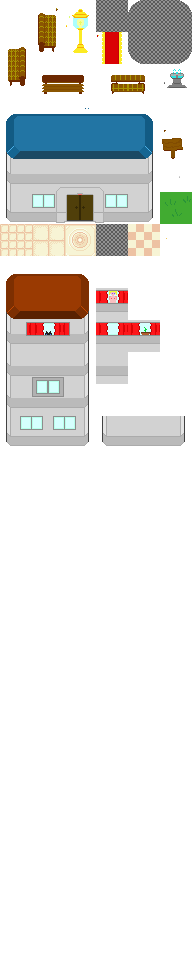
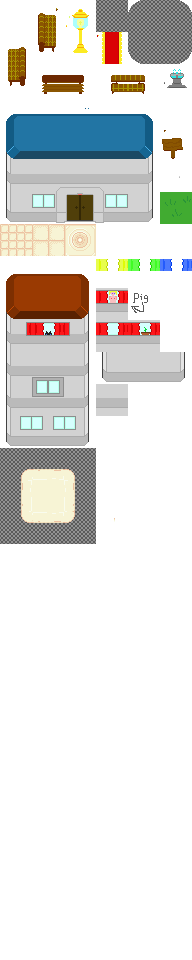
Added map

Changed region(s): [[0.5, 0.2188, 0.9688, 0.4688], [0.0, 0.4688, 0.5, 0.5938], [0.9375, 0.25, 1.0, 0.2812]]

diff --git a/VideoGame/VideoGame/Classes/Area.cs b/VideoGame/VideoGame/Classes/Area.cs
@@ -28,17 +28,20 @@ namespace VideoGame.Classes
         private Rectangle encounterHitbox;
         private Rectangle collisionHitbox;
         private Vector2 SpawnLocation;
-        List<Character> OpponentList = new List<Character>();
-        Dictionary<Rectangle, string> AreaColiders = new Dictionary<Rectangle, string>();
-        List<Rectangle> EncounterColiders = new List<Rectangle>();
-        List<Rectangle> CollisionColiders = new List<Rectangle>();
-        static int tileWidth = 32;
-        static int tileHeight = 32;
+        private List<Character> OpponentList = new List<Character>();
+        private Dictionary<Rectangle, string> AreaColiders = new Dictionary<Rectangle, string>();
+        private List<Rectangle> EncounterColiders = new List<Rectangle>();
+        private List<Rectangle> CollisionColiders = new List<Rectangle>();
+        private static int tileWidth = 32;
+        private static int tileHeight = 32;
         private Vector2 previousPos = new Vector2();
 
-        public Area() { }
+        public Area()
+        {
+        }
 
-        public Area(string name, Point levelrange, List<Monster> monsters, List<Character> opponentList, Vector2 spawnLocation, TiledMap map)
+        public Area(string name, Point levelrange, List<Monster> monsters, List<Character> opponentList,
+            Vector2 spawnLocation, TiledMap map)
         {
             Levelrange = levelrange;
             Name = name;
@@ -58,9 +61,18 @@ namespace VideoGame.Classes
                 {
                     batch.Draw(ContentLoader.Health, opponent.AI.Hitbox, Color.White);
                 }
-                foreach (var encounterColider in EncounterColiders) { batch.Draw(ContentLoader.Button, encounterColider, Color.Green); }
-                foreach (var collisionColider in CollisionColiders) { batch.Draw(ContentLoader.Button, collisionColider, Color.Blue); }
-                foreach (var areaCollider in AreaColiders) { batch.Draw(ContentLoader.Button, areaCollider.Key, Color.Aqua); }
+                foreach (var encounterColider in EncounterColiders)
+                {
+                    batch.Draw(ContentLoader.Button, encounterColider, Color.Green);
+                }
+                foreach (var collisionColider in CollisionColiders)
+                {
+                    batch.Draw(ContentLoader.Button, collisionColider, Color.Blue);
+                }
+                foreach (var areaCollider in AreaColiders)
+                {
+                    batch.Draw(ContentLoader.Button, areaCollider.Key, Color.Aqua);
+                }
             }
             foreach (var opponent in OpponentList) opponent.Draw(batch);
         }
@@ -80,7 +92,10 @@ namespace VideoGame.Classes
         public void GetCollision(Character player)
         {
             CollisionColiders.Clear();
-            var collisionLayers = Map.TileLayers.Where(layer => layer.Properties.ContainsKey("Collision") && layer.Properties.ContainsValue("true")).ToList();
+            var collisionLayers =
+                Map.TileLayers.Where(
+                    layer => layer.Properties.ContainsKey("Collision") && layer.Properties.ContainsValue("true"))
+                    .ToList();
             foreach (var layer in collisionLayers)
             {
                 foreach (var tile in layer.Tiles)
@@ -143,7 +158,10 @@ namespace VideoGame.Classes
         {
             bool test = true;
             EncounterColiders.Clear();
-            var encounterLayers = Map.TileLayers.Where(layer => layer.Properties.ContainsKey("Encounters") && layer.Properties.ContainsValue("true")).ToList();
+            var encounterLayers =
+                Map.TileLayers.Where(
+                    layer => layer.Properties.ContainsKey("Encounters") && layer.Properties.ContainsValue("true"))
+                    .ToList();
             foreach (var layer in encounterLayers)
             {
                 foreach (var tile in layer.Tiles)
@@ -227,6 +245,8 @@ namespace VideoGame.Classes
                     return City(player);
                 case "shop":
                     return Shop();
+                case "secrettunnel":
+                    return SecretTunnel(player);
             }
             return null;
         }
@@ -241,8 +261,9 @@ namespace VideoGame.Classes
         }
 
         #region Route1
+
         public static
-        Area Route1(Character player)
+            Area Route1(Character player)
         {
             if (Sound != null)
                 Sound.Stop();
@@ -253,10 +274,11 @@ namespace VideoGame.Classes
 
             Character tegenstander;
             Inventory inventory = new Inventory();
-            inventory.Add(Medicine.MagicStone(),5);
+            inventory.Add(Medicine.MagicStone(), 5);
             tegenstander = new Character("Nice guy", 6700,
                 inventory,
-                new List<Monster> {
+                new List<Monster>
+                {
                     DatabaseConnector.GetMonster(1, 5),
                     DatabaseConnector.GetMonster(4, 15)
                 },
@@ -278,22 +300,26 @@ namespace VideoGame.Classes
                 {
                     spawn = new Vector2(192, 416);
                 }
-            List<Monster> monsters = new List<Monster> {
+            List<Monster> monsters = new List<Monster>
+            {
                 DatabaseConnector.GetMonster(1, random.Next(levelrange.X, levelrange.Y)),
                 DatabaseConnector.GetMonster(10, random.Next(levelrange.X, levelrange.Y)),
                 DatabaseConnector.GetMonster(12, random.Next(levelrange.X, levelrange.Y))
             };
-            List<Character> opponents = new List<Character> {
+            List<Character> opponents = new List<Character>
+            {
                 tegenstander
             };
 
             return new Area("Route 1", levelrange, monsters, opponents, spawn, map);
         }
+
         #endregion
 
         #region Route2
+
         public static
-        Area Route2(Character player)
+            Area Route2(Character player)
         {
             if (Sound != null)
                 Sound.Stop();
@@ -324,7 +350,8 @@ namespace VideoGame.Classes
                 {
                     spawn = new Vector2(32, 384);
                 }
-            List<Monster> monsters = new List<Monster> {
+            List<Monster> monsters = new List<Monster>
+            {
                 DatabaseConnector.GetMonster(1, random.Next(levelrange.X, levelrange.Y)),
                 DatabaseConnector.GetMonster(10, random.Next(levelrange.X, levelrange.Y)),
                 DatabaseConnector.GetMonster(12, random.Next(levelrange.X, levelrange.Y))
@@ -335,11 +362,13 @@ namespace VideoGame.Classes
 
             return new Area("Route 2", levelrange, monsters, opponents, spawn, map);
         }
+
         #endregion
 
         #region Route3
+
         public static
-        Area Route3(Character player)
+            Area Route3(Character player)
         {
             if (Sound != null)
                 Sound.Stop();
@@ -370,7 +399,8 @@ namespace VideoGame.Classes
                 {
                     spawn = new Vector2(352, 32);
                 }
-            List<Monster> monsters = new List<Monster> {
+            List<Monster> monsters = new List<Monster>
+            {
                 DatabaseConnector.GetMonster(1, random.Next(levelrange.X, levelrange.Y)),
                 DatabaseConnector.GetMonster(10, random.Next(levelrange.X, levelrange.Y)),
                 DatabaseConnector.GetMonster(12, random.Next(levelrange.X, levelrange.Y))
@@ -381,11 +411,13 @@ namespace VideoGame.Classes
 
             return new Area("Route 3", levelrange, monsters, opponents, spawn, map);
         }
+
         #endregion
 
         #region Route4
+
         public static
-        Area Route4(Character player)
+            Area Route4(Character player)
         {
             if (Sound != null)
                 Sound.Stop();
@@ -416,7 +448,8 @@ namespace VideoGame.Classes
                 {
                     spawn = new Vector2(256, 320);
                 }
-            List<Monster> monsters = new List<Monster> {
+            List<Monster> monsters = new List<Monster>
+            {
                 DatabaseConnector.GetMonster(1, random.Next(levelrange.X, levelrange.Y)),
                 DatabaseConnector.GetMonster(10, random.Next(levelrange.X, levelrange.Y)),
                 DatabaseConnector.GetMonster(12, random.Next(levelrange.X, levelrange.Y))
@@ -427,7 +460,9 @@ namespace VideoGame.Classes
 
             return new Area("Route 4", levelrange, monsters, opponents, spawn, map);
         }
+
         #endregion
+
         public static Area City(Character player)
         {
             if (Sound != null)
@@ -468,5 +503,41 @@ namespace VideoGame.Classes
 
             return new Area("Shop", Point.Zero, new List<Monster>(), new List<Character>(), spawn, map);
         }
+
+        #region Secret tunnel
+
+        public static Area SecretTunnel(Character player)
+        {
+            if (Sound != null)
+                Sound.Stop();
+
+            Sound = ContentLoader.TownSong.CreateInstance();
+            Sound.IsLooped = true;
+            Sound.Play();
+
+            Random random = new Random();
+            Point levelrange = new Point(3, 8);
+            var map = ContentLoader.SecretTunnel;
+
+            Vector2 spawn = Vector2.One;
+            if (player.PreviousArea != null)
+                if (player.PreviousArea.Name == "City")
+                {
+                    spawn = new Vector2(384, 416);
+                }
+                else
+                {
+                    spawn = new Vector2(256, 320);
+                }
+
+            List<Monster> monsters = new List<Monster>();
+            List<Character> opponents = new List<Character>();
+            //Sound = ContentLoader.RouteSong;
+            //Sound.IsLooped = true;
+            //Sound.Play();
+
+            return new Area("SecretTunnel", levelrange, monsters, opponents, spawn, map);
+        }
+        #endregion
     }
 }

diff --git a/VideoGame/VideoGame/Classes/ContentLoader.cs b/VideoGame/VideoGame/Classes/ContentLoader.cs
@@ -54,7 +54,7 @@ namespace VideoGame.Classes {
         public static Texture2D Button, ButtonHover, ButtonClicked;
         public static Texture2D AirHorn, AntiPoison, BucketOfWater, LeafBandage, MagicStone, RoosVicee, Salt;
         public static Texture2D RottenNet, RegularNet, GreatNet;
-        public static TiledMap City, Route1, Route2, Route3, Route4, Shop;
+        public static TiledMap City, Route1, Route2, Route3, Route4, Shop, SecretTunnel;
         public static SpriteFont Arial;
 
         public static SoundEffect TownSong;
@@ -198,6 +198,7 @@ namespace VideoGame.Classes {
             Route3 = Content.Load<TiledMap>("Route3");
             Route4 = Content.Load<TiledMap>("Route4");
             Shop = Content.Load<TiledMap>("shop");
+            SecretTunnel = Content.Load<TiledMap>("SecretTunnel");
 
             #endregion
 
